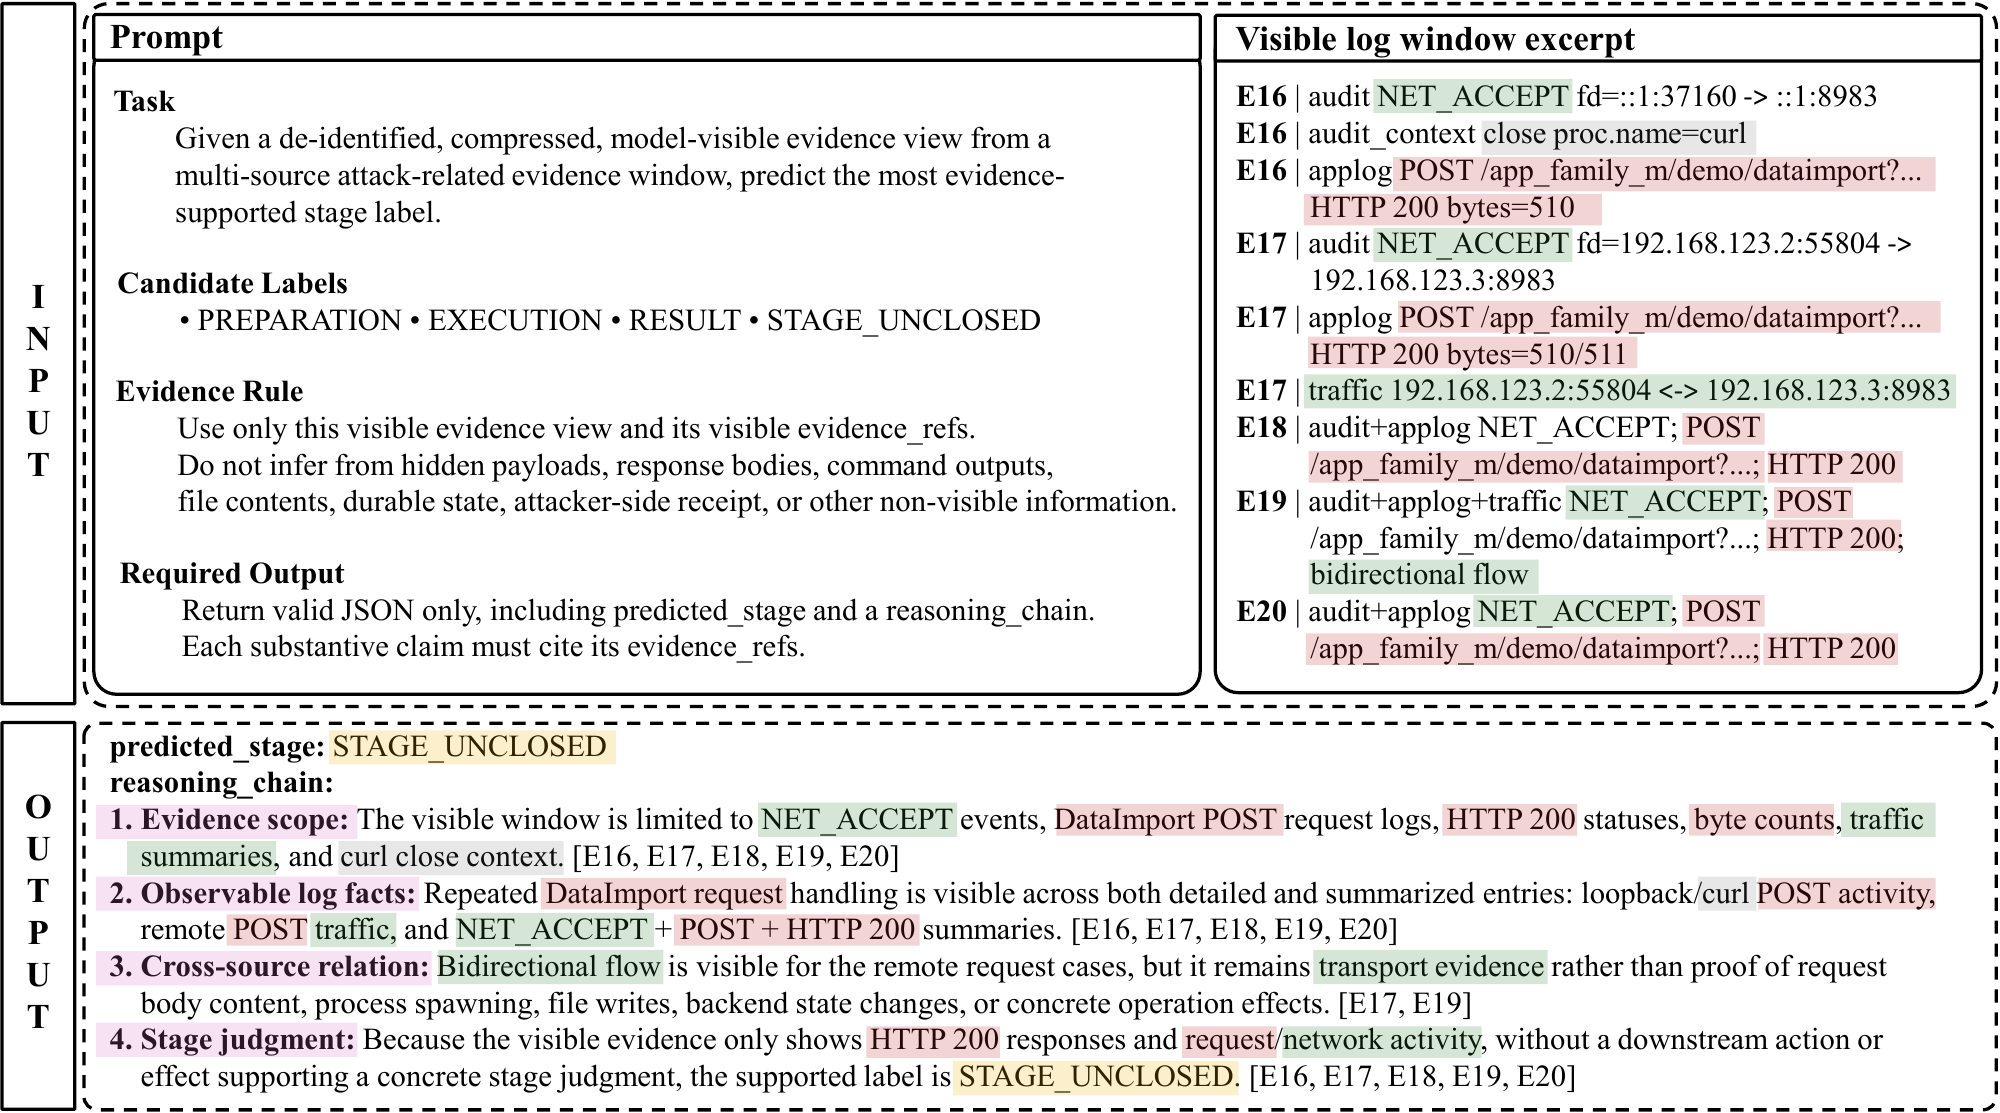
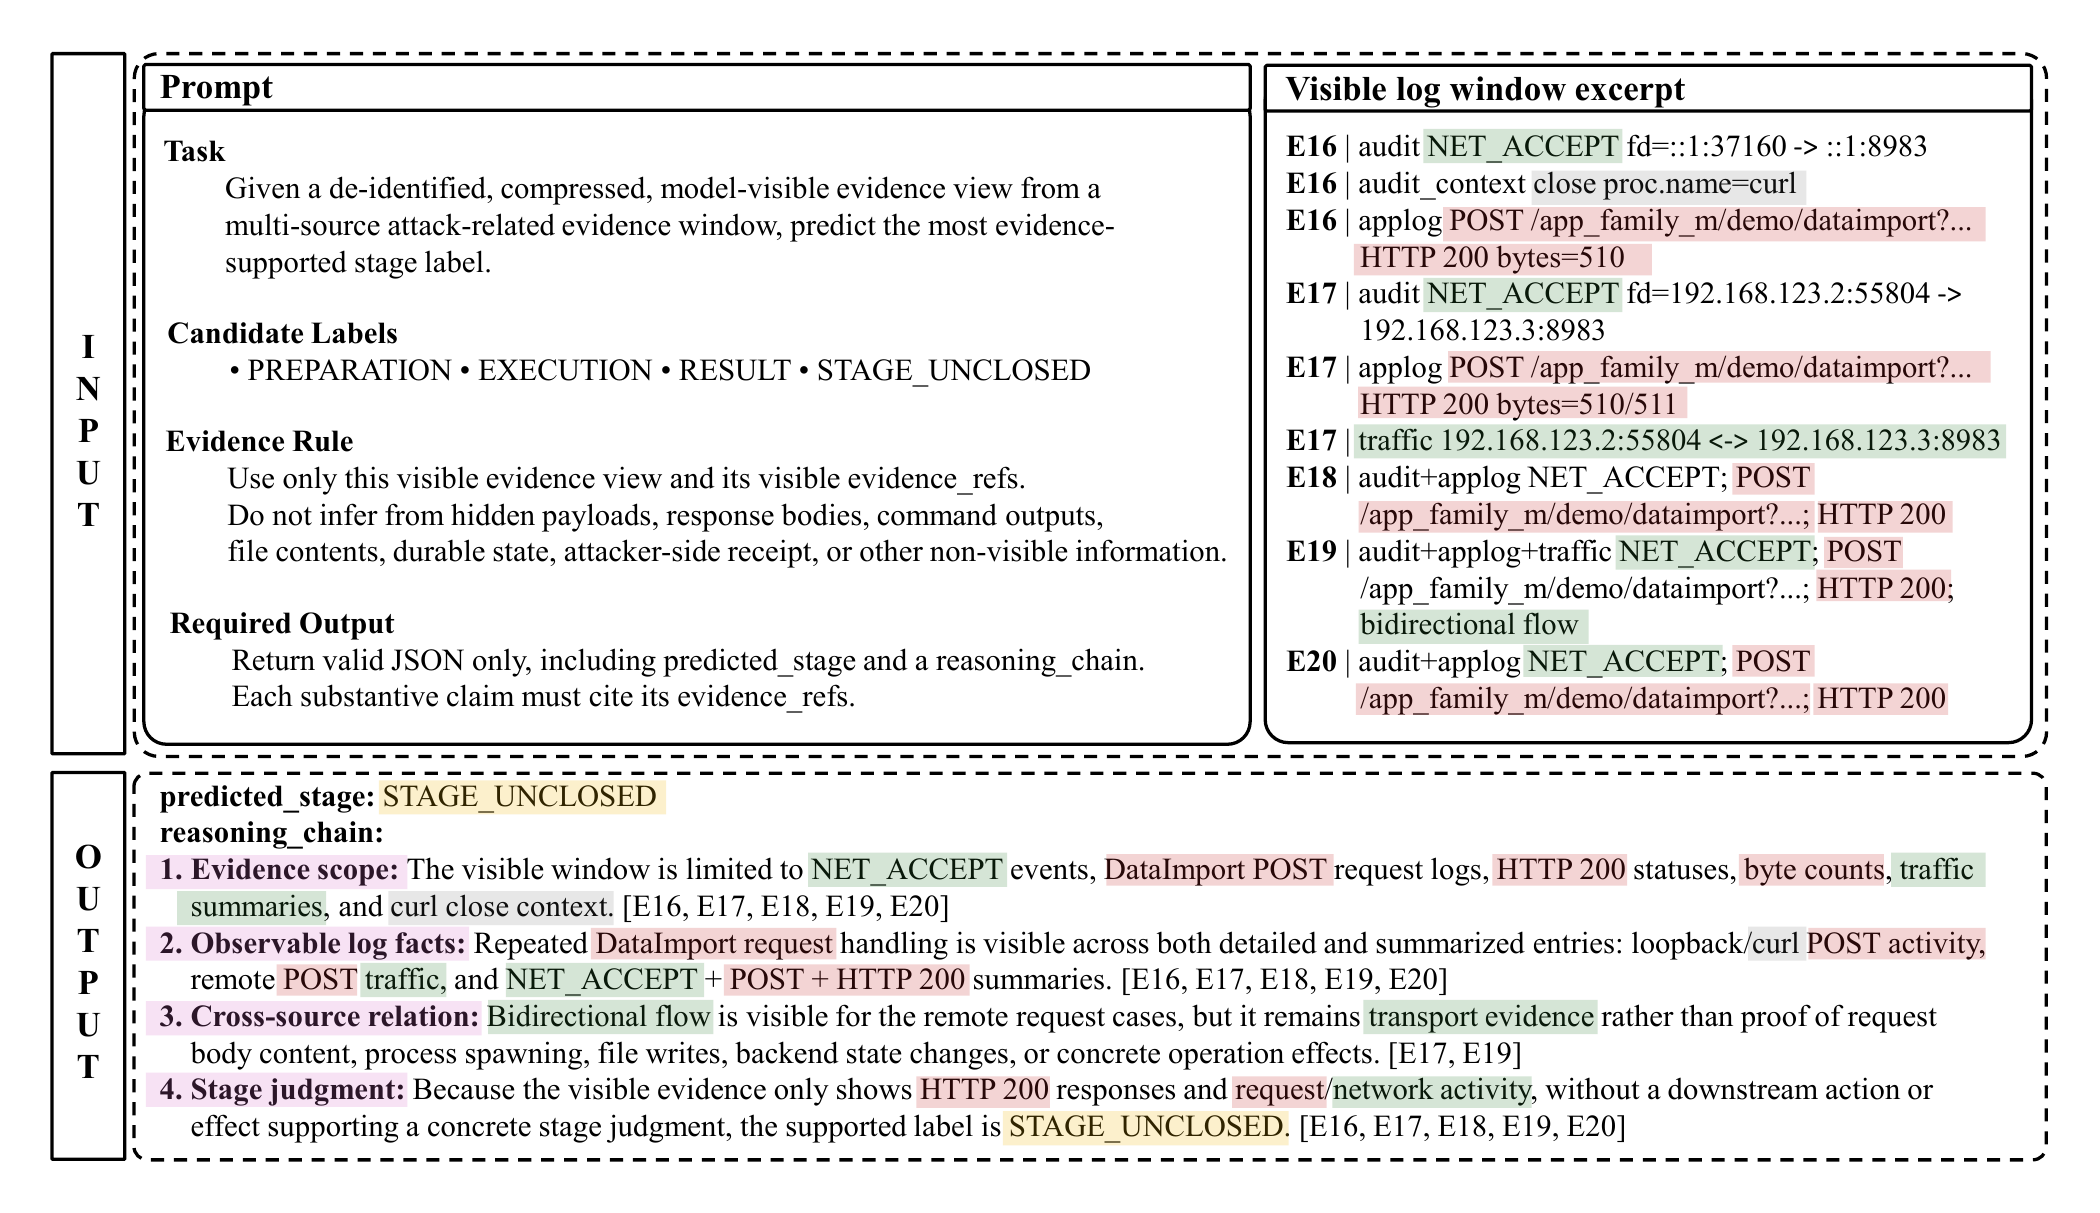
Polish README figures with padded cards, captions, and a collapsible example

diff --git a/README.md b/README.md
@@ -11,12 +11,9 @@ Researchers can use the supplied benchmark directly or run the construction
 pipeline to produce new data.
 
 <p align="center">
-  <img src="docs/figures/seclog_overview.png" alt="SecLog overview" width="100%">
+  <img src="docs/figures/seclog_overview.png" alt="SecLog overview" width="90%">
 </p>
-
-Part I of the figure corresponds to stages `01`–`04`, Part II to the
-annotation and review workflow in `05`, and Part III to the evaluation
-workflow in `05` with `SecLog-Bench-216`.
+<p align="center"><sub><i>Figure 1. SecLog overview. Part I corresponds to stages 01–04, Part II to the annotation and review workflow in 05, and Part III to the evaluation workflow in 05 with SecLog-Bench-216.</i></sub></p>
 
 ## Main features
 
@@ -148,13 +145,14 @@ review workflow in
 
 ## Input and output examples
 
+<details>
+<summary>Show an illustrative prompt and model output</summary>
+<br>
 <p align="center">
-  <img src="docs/figures/evaluation_io_example.png" alt="Example prompt, visible log window, and model output" width="100%">
+  <img src="docs/figures/evaluation_io_example.png" alt="Example prompt, visible log window, and model output" width="90%">
 </p>
-
-The figure is an illustrative example. In the released files, stage labels
-are lowercase (for example, `stage_unclosed`) and evidence references use
-sample-local `edge_id` values.
+<p align="center"><sub><i>Figure 2. Illustrative example. In the released files, stage labels are lowercase (for example, <code>stage_unclosed</code>) and evidence references use sample-local <code>edge_id</code> values.</i></sub></p>
+</details>
 
 The benchmark uses JSONL: each line is one JSON object, joined across files by
 `sample_id`.

diff --git a/01_dataset_construction/README.md b/01_dataset_construction/README.md
@@ -5,10 +5,9 @@ Purpose: construct raw multi-source security-log runs from Docker scenarios.
 <p align="center">
   <img src="../docs/figures/scenario_distribution.png" alt="Distribution of the 29 reproducible attack scenarios" width="55%">
 </p>
+<p align="center"><sub><i>The construction batch in <code>build.sh</code> covers 29 reproducible attack scenarios, grouped by application stack.</i></sub></p>
 
-The construction batch in `build.sh` covers 29 reproducible attack scenarios,
-grouped above by application stack. Scenario descriptions are in
-[scenario_descriptions.md](scenario_descriptions.md).
+Scenario descriptions are in [scenario_descriptions.md](scenario_descriptions.md).
 
 Primary entry points:
 
